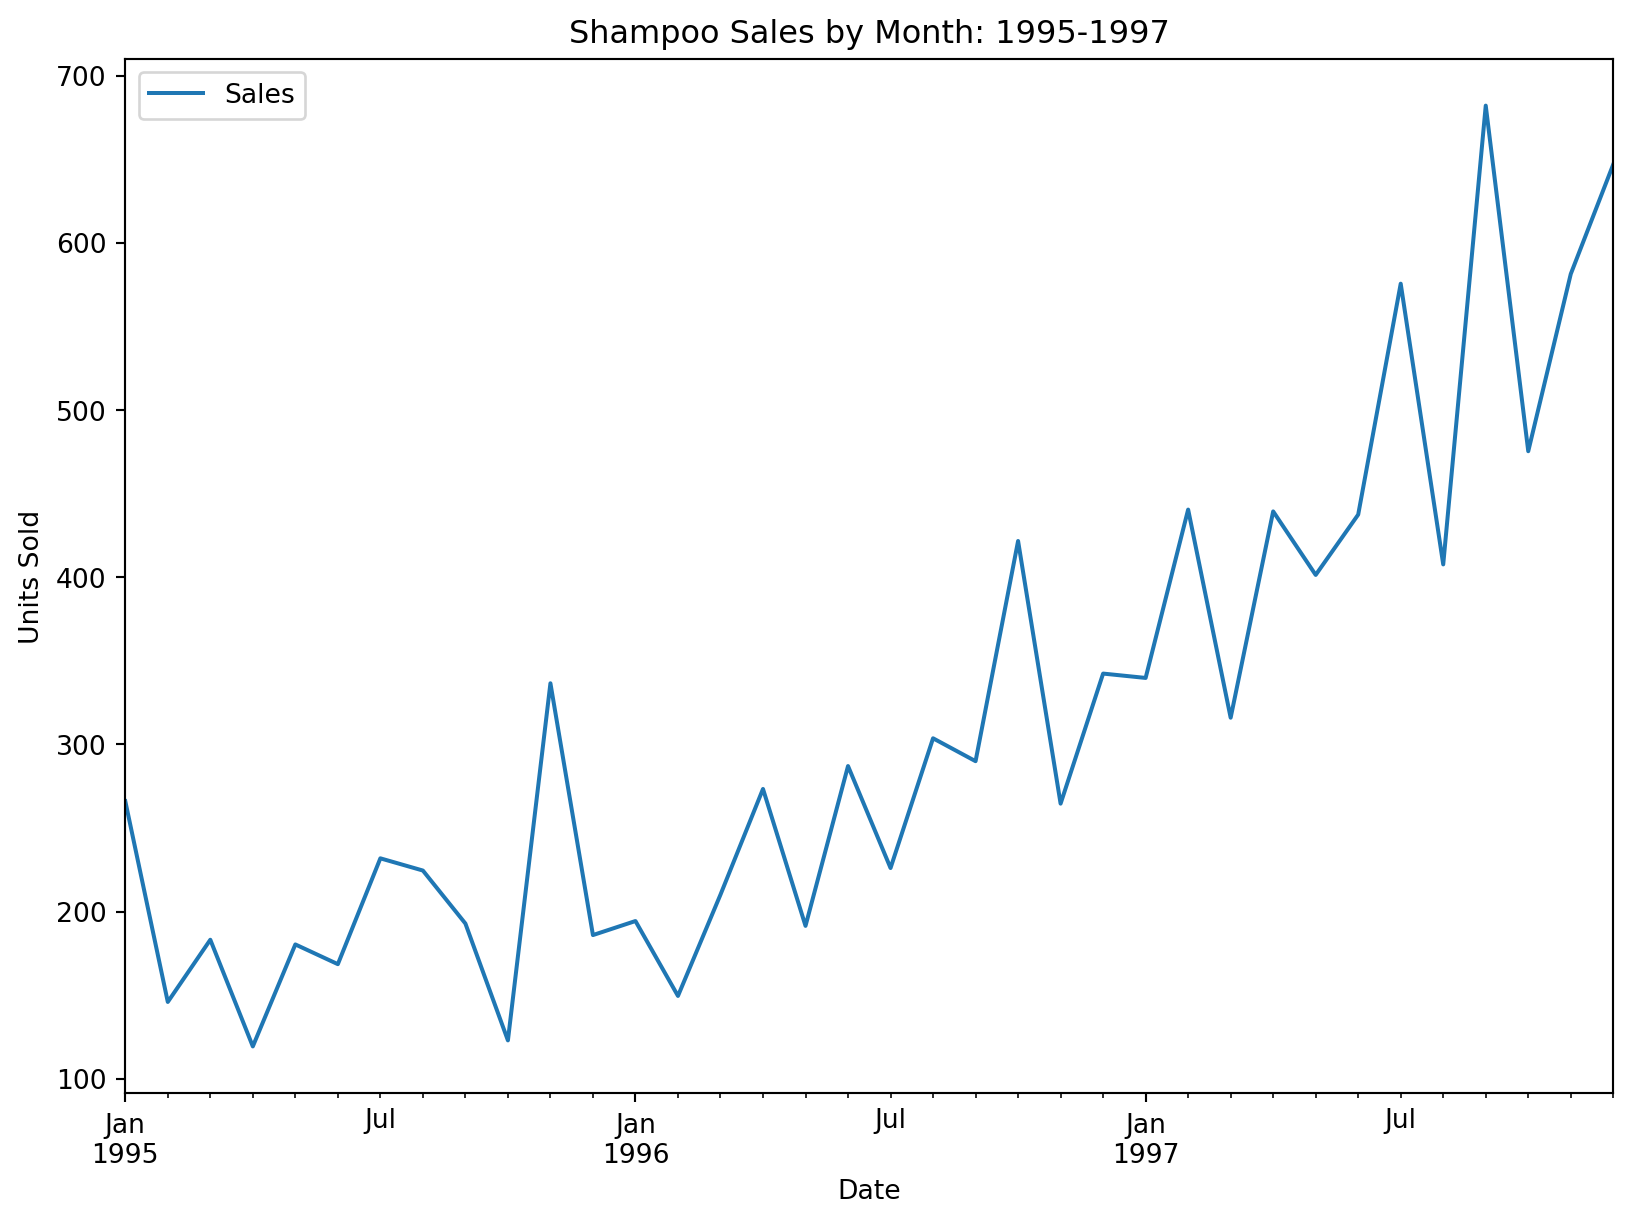
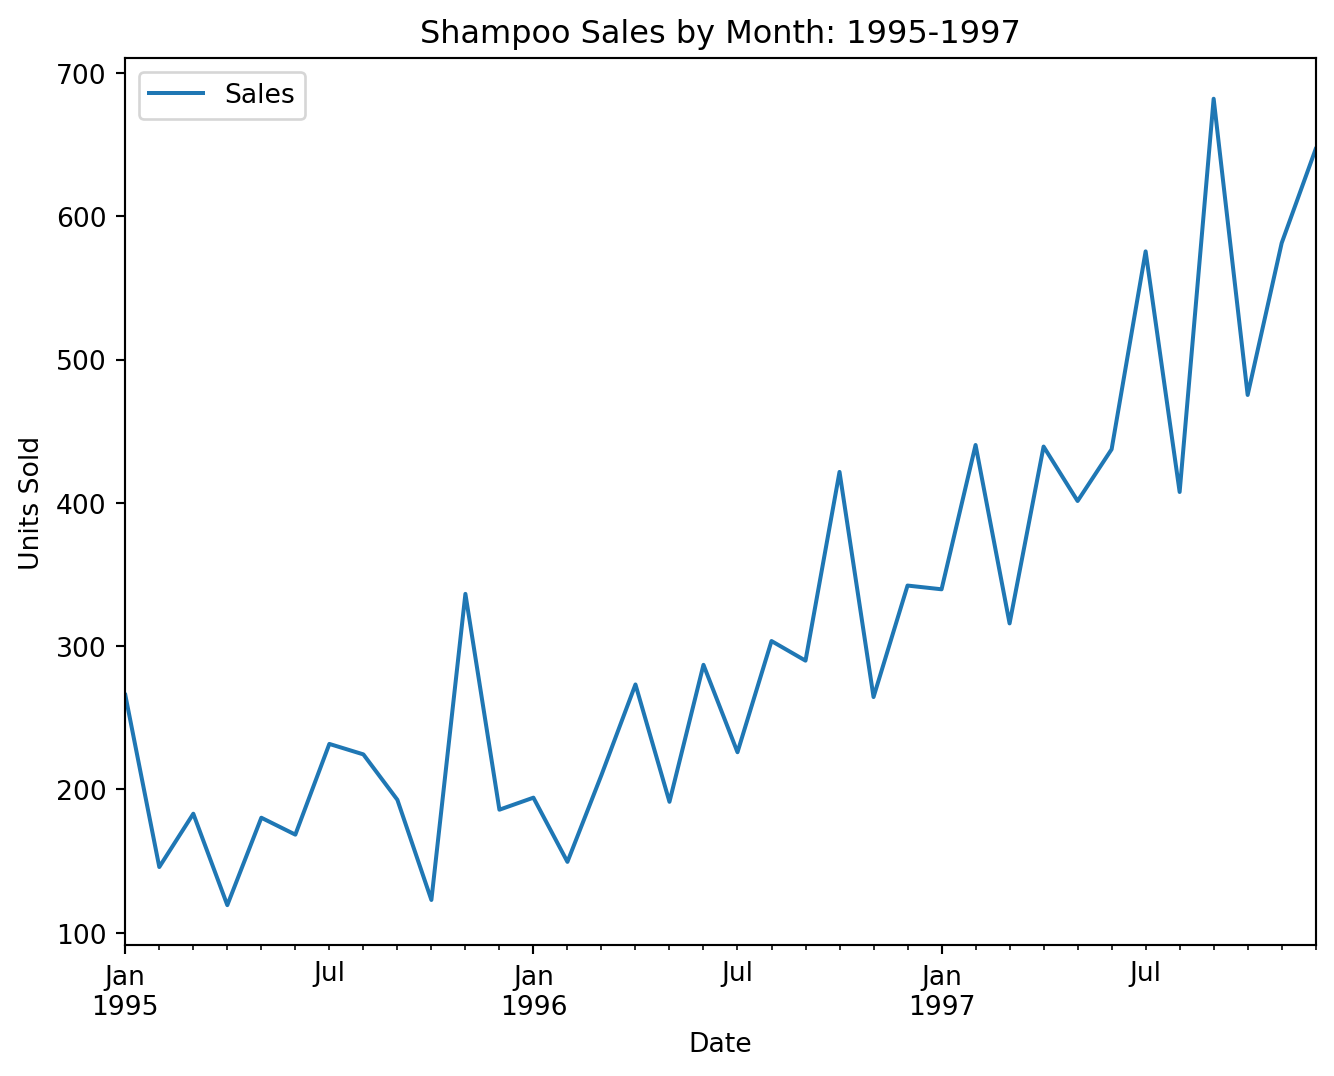
Fixed chart size for another chart in naive with trend post

diff --git a/docs/posts/naive-forecasts-including-trend/index.html b/docs/posts/naive-forecasts-including-trend/index.html
@@ -248,7 +248,7 @@ gtag('config', 'G-C9HXYCSWSJ', { 'anonymize_ip': true});
 <section id="a-simple-example-in-python" class="level2">
 <h2 class="anchored" data-anchor-id="a-simple-example-in-python">A Simple Example in Python</h2>
 <p>To illustrate a naive forecast with drift, we will use a common time series dataset that captures three years of monthly shampoo sales. In the following code cell, we will load the libraries we need and prepare our data for use.</p>
-<div id="8b3847c6" class="cell" data-execution_count="1">
+<div id="4bd5ef6e" class="cell" data-execution_count="1">
 <div class="code-copy-outer-scaffold"><div class="sourceCode cell-code" id="cb1"><pre class="sourceCode python code-with-copy"><code class="sourceCode python"><span id="cb1-1"><a href="#cb1-1" aria-hidden="true" tabindex="-1"></a><span class="co"># common imports</span></span>
 <span id="cb1-2"><a href="#cb1-2" aria-hidden="true" tabindex="-1"></a><span class="im">import</span> numpy <span class="im">as</span> np</span>
 <span id="cb1-3"><a href="#cb1-3" aria-hidden="true" tabindex="-1"></a><span class="im">import</span> pandas <span class="im">as</span> pd</span>
@@ -272,34 +272,34 @@ gtag('config', 'G-C9HXYCSWSJ', { 'anonymize_ip': true});
 <span id="cb1-21"><a href="#cb1-21" aria-hidden="true" tabindex="-1"></a>shampoo <span class="op">=</span> shampoo.drop(columns<span class="op">=</span>[<span class="st">'Month'</span>, <span class="st">'Year'</span>])</span></code></pre></div><button title="Copy to Clipboard" class="code-copy-button"><i class="bi"></i></button></div>
 </div>
 <p>Now, we will perform a simple train-test split to set aside a portion of our dataset for testing.</p>
-<div id="a74a00ed" class="cell" data-execution_count="2">
+<div id="e0be7b4f" class="cell" data-execution_count="2">
 <div class="code-copy-outer-scaffold"><div class="sourceCode cell-code" id="cb2"><pre class="sourceCode python code-with-copy"><code class="sourceCode python"><span id="cb2-1"><a href="#cb2-1" aria-hidden="true" tabindex="-1"></a><span class="im">from</span> sklearn.model_selection <span class="im">import</span> train_test_split</span>
 <span id="cb2-2"><a href="#cb2-2" aria-hidden="true" tabindex="-1"></a></span>
 <span id="cb2-3"><a href="#cb2-3" aria-hidden="true" tabindex="-1"></a>y_train, y_test <span class="op">=</span> train_test_split(shampoo, shuffle<span class="op">=</span><span class="va">False</span>, test_size<span class="op">=</span><span class="dv">4</span>) <span class="co">#Shuffle parameter is set to Fase since we are working with a time series</span></span></code></pre></div><button title="Copy to Clipboard" class="code-copy-button"><i class="bi"></i></button></div>
 </div>
 <p>Let’s take a quick look at our data using a simple line plot. In a real-world project, you would do much more during the exploratory data analysis stage. However, for our purposes, this will help us identify the trend structure within the data.</p>
-<div id="87a1f324" class="cell" data-execution_count="3">
-<div class="code-copy-outer-scaffold"><div class="sourceCode cell-code" id="cb3"><pre class="sourceCode python code-with-copy"><code class="sourceCode python"><span id="cb3-1"><a href="#cb3-1" aria-hidden="true" tabindex="-1"></a>shampoo.plot(figsize<span class="op">=</span>(<span class="dv">10</span>,<span class="dv">7</span>))</span>
+<div id="78e301ea" class="cell" data-execution_count="3">
+<div class="code-copy-outer-scaffold"><div class="sourceCode cell-code" id="cb3"><pre class="sourceCode python code-with-copy"><code class="sourceCode python"><span id="cb3-1"><a href="#cb3-1" aria-hidden="true" tabindex="-1"></a>shampoo.plot(figsize<span class="op">=</span>(<span class="dv">8</span>,<span class="dv">6</span>))</span>
 <span id="cb3-2"><a href="#cb3-2" aria-hidden="true" tabindex="-1"></a>plt.title(<span class="st">'Shampoo Sales by Month: 1995-1997'</span>)</span>
 <span id="cb3-3"><a href="#cb3-3" aria-hidden="true" tabindex="-1"></a>plt.ylabel(<span class="st">'Units Sold'</span>)</span>
 <span id="cb3-4"><a href="#cb3-4" aria-hidden="true" tabindex="-1"></a>plt.show()<span class="op">;</span></span></code></pre></div><button title="Copy to Clipboard" class="code-copy-button"><i class="bi"></i></button></div>
 <div class="cell-output cell-output-display">
 <div>
 <figure class="figure">
-<p><img src="index_files/figure-html/cell-4-output-1.png" width="816" height="612" class="figure-img"></p>
+<p><img src="index_files/figure-html/cell-4-output-1.png" width="667" height="538" class="figure-img"></p>
 </figure>
 </div>
 </div>
 </div>
 <p>There is no clear seasonality in this dataset. However, our data displays a strong upward trend. Shampoo sales steadily increased during the years the data was collected.</p>
 <p>Now we are ready to create our fitted values for the training set. We will use pandas’ .shift() method to shift our values forward by one row. Then, we will use the .dropna() method to remove the resulting null value created by this shift.</p>
-<div id="c2b52bdd" class="cell" data-execution_count="4">
+<div id="d1d6e12b" class="cell" data-execution_count="4">
 <div class="code-copy-outer-scaffold"><div class="sourceCode cell-code" id="cb4"><pre class="sourceCode python code-with-copy"><code class="sourceCode python"><span id="cb4-1"><a href="#cb4-1" aria-hidden="true" tabindex="-1"></a>shampoo_naive_fitted <span class="op">=</span> y_train.shift(<span class="dv">1</span>)</span>
 <span id="cb4-2"><a href="#cb4-2" aria-hidden="true" tabindex="-1"></a>shampoo_naive_fitted <span class="op">=</span> shampoo_naive_fitted.dropna()</span></code></pre></div><button title="Copy to Clipboard" class="code-copy-button"><i class="bi"></i></button></div>
 </div>
 <p>Next, we calculate our drift value. In this example, we will calculate it by subtracting the first observation from the last observation in our training set and dividing by the number of observations minus one.</p>
 <p>Pandas’ <code>.squeeze()</code> method turns the resulting single-value Series into a scalar value. More information about this method can be found in the pandas documentation <a href="https://pandas.pydata.org/docs/reference/api/pandas.DataFrame.squeeze.html">here</a>.</p>
-<div id="d838146e" class="cell" data-execution_count="5">
+<div id="392a5a2a" class="cell" data-execution_count="5">
 <div class="code-copy-outer-scaffold"><div class="sourceCode cell-code" id="cb5"><pre class="sourceCode python code-with-copy"><code class="sourceCode python"><span id="cb5-1"><a href="#cb5-1" aria-hidden="true" tabindex="-1"></a>shampoo_naive_drift <span class="op">=</span> ((y_train.iloc[<span class="op">-</span><span class="dv">1</span>] <span class="op">-</span> y_train.iloc[<span class="dv">0</span>]) <span class="op">/</span> (<span class="bu">len</span>(y_train) <span class="op">-</span> <span class="dv">1</span>)).squeeze()</span>
 <span id="cb5-2"><a href="#cb5-2" aria-hidden="true" tabindex="-1"></a></span>
 <span id="cb5-3"><a href="#cb5-3" aria-hidden="true" tabindex="-1"></a><span class="bu">print</span>(shampoo_naive_drift)</span></code></pre></div><button title="Copy to Clipboard" class="code-copy-button"><i class="bi"></i></button></div>
@@ -309,7 +309,7 @@ gtag('config', 'G-C9HXYCSWSJ', { 'anonymize_ip': true});
 </div>
 <p>Our drift value is approximately 4.6. This means that, on average, our data has increased by around 4.6 units of sales each month across the training period.</p>
 <p>We will now add this drift value to our fitted values to create a naive forecast with drift.</p>
-<div id="1c102ff5" class="cell" data-execution_count="6">
+<div id="ff9d70c9" class="cell" data-execution_count="6">
 <div class="code-copy-outer-scaffold"><div class="sourceCode cell-code" id="cb7"><pre class="sourceCode python code-with-copy"><code class="sourceCode python"><span id="cb7-1"><a href="#cb7-1" aria-hidden="true" tabindex="-1"></a><span class="co"># Add drift to fitted values</span></span>
 <span id="cb7-2"><a href="#cb7-2" aria-hidden="true" tabindex="-1"></a>shampoo_naive_fitted_drift <span class="op">=</span> shampoo_naive_fitted <span class="op">+</span> shampoo_naive_drift</span>
 <span id="cb7-3"><a href="#cb7-3" aria-hidden="true" tabindex="-1"></a></span>
@@ -318,7 +318,7 @@ gtag('config', 'G-C9HXYCSWSJ', { 'anonymize_ip': true});
 </div>
 <p>Okay, now we are ready to forecast into our test period. We will add the drift value at each successive step, allowing it to accumulate as we move further into the future.</p>
 <p>We will start with the last actual observation in our training set and calculate the forecast for each step in the test period.</p>
-<div id="24c0ba25" class="cell" data-execution_count="7">
+<div id="db39da4f" class="cell" data-execution_count="7">
 <div class="code-copy-outer-scaffold"><div class="sourceCode cell-code" id="cb8"><pre class="sourceCode python code-with-copy"><code class="sourceCode python"><span id="cb8-1"><a href="#cb8-1" aria-hidden="true" tabindex="-1"></a><span class="co"># Capture the final actual training observation as our starting point</span></span>
 <span id="cb8-2"><a href="#cb8-2" aria-hidden="true" tabindex="-1"></a>last_observation <span class="op">=</span> y_train.iloc[<span class="op">-</span><span class="dv">1</span>].squeeze()</span>
 <span id="cb8-3"><a href="#cb8-3" aria-hidden="true" tabindex="-1"></a></span>
@@ -344,7 +344,7 @@ gtag('config', 'G-C9HXYCSWSJ', { 'anonymize_ip': true});
 <span id="cb8-23"><a href="#cb8-23" aria-hidden="true" tabindex="-1"></a>)</span></code></pre></div><button title="Copy to Clipboard" class="code-copy-button"><i class="bi"></i></button></div>
 </div>
 <p>Ok, we have successfully projected our naive model with drift through the test period. Let’s now take a moment to examine how well our model performs using a simple visualization.</p>
-<div id="59730ba4" class="cell" data-execution_count="8">
+<div id="499e1d91" class="cell" data-execution_count="8">
 <div class="code-copy-outer-scaffold"><div class="sourceCode cell-code" id="cb9"><pre class="sourceCode python code-with-copy"><code class="sourceCode python"><span id="cb9-1"><a href="#cb9-1" aria-hidden="true" tabindex="-1"></a>pd.concat([shampoo, pd.concat([shampoo_naive_fitted_drift, shampoo_naive_forecast_drift], axis<span class="op">=</span><span class="dv">0</span>)], axis<span class="op">=</span><span class="dv">1</span>).rename(columns<span class="op">=</span>{<span class="st">'Sales'</span>:<span class="st">'actual'</span>}).plot(figsize<span class="op">=</span>(<span class="dv">8</span>, <span class="dv">6</span>))</span>
 <span id="cb9-2"><a href="#cb9-2" aria-hidden="true" tabindex="-1"></a>plt.axvline(x<span class="op">=</span>y_train.index[<span class="op">-</span><span class="dv">1</span>], color<span class="op">=</span><span class="st">'red'</span>, linestyle<span class="op">=</span><span class="st">'--'</span>, label<span class="op">=</span><span class="st">'Start of Test Set'</span>)</span>
 <span id="cb9-3"><a href="#cb9-3" aria-hidden="true" tabindex="-1"></a>plt.title(<span class="st">'Shampoo Sales by Month: Naive with Trend Forecast vs. Actuals'</span>)</span>

diff --git a/docs/index.html b/docs/index.html
@@ -262,7 +262,7 @@ window.Quarto = {
 <p>Browse the latest articles below.</p>
 <div id="listing-latest-posts" class="quarto-listing quarto-listing-container-default">
 <div class="list quarto-listing-default">
[2 lines of base64/hex data omitted]
 <div class="body">
 <h3 class="no-anchor listing-title">
 <a href="./posts/naive-forecasts-including-trend/index.html" class="no-external">Naive Forecasts with Trend</a>

diff --git a/docs/archive.html b/docs/archive.html
@@ -253,7 +253,7 @@ window.Quarto = {
     </div>
 </div>
 <div class="list quarto-listing-default">
[2 lines of base64/hex data omitted]
 <div class="body">
 <h3 class="no-anchor listing-title">
 <a href="./posts/naive-forecasts-including-trend/index.html" class="no-external">Naive Forecasts with Trend</a>
